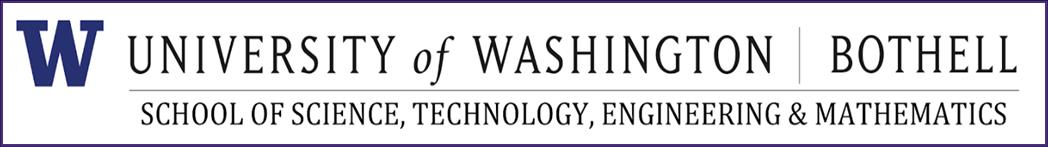
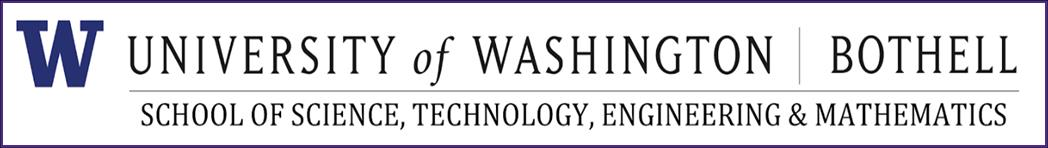
Add files via upload

Changed region(s): [[0.1221, 0.5986, 0.9771, 0.6259], [0.8855, 0.4626, 0.9466, 0.4898], [0.8244, 0.6803, 0.855, 0.7075]]

diff --git a/index.htm b/index.htm
@@ -23,10 +23,10 @@ w\:* {behavior:url(#default#VML);}
   <o:Author>Isabelle</o:Author>
   <o:Template>Normal</o:Template>
   <o:LastAuthor>Isabelle Heier</o:LastAuthor>
-  <o:Revision>4</o:Revision>
-  <o:TotalTime>17</o:TotalTime>
-  <o:Created>2020-07-20T18:03:00Z</o:Created>
-  <o:LastSaved>2020-07-20T18:05:00Z</o:LastSaved>
+  <o:Revision>3</o:Revision>
+  <o:TotalTime>23</o:TotalTime>
+  <o:Created>2020-07-20T18:05:00Z</o:Created>
+  <o:LastSaved>2020-07-20T18:11:00Z</o:LastSaved>
   <o:Pages>1</o:Pages>
   <o:Words>255</o:Words>
   <o:Characters>1457</o:Characters>
@@ -916,12 +916,12 @@ div.WordSection1
  <v:path o:extrusionok="f" gradientshapeok="t" o:connecttype="rect"/>
  <o:lock v:ext="edit" aspectratio="t"/>
 </v:shapetype><v:shape id="image1.png" o:spid="_x0000_s1026" type="#_x0000_t75"
- alt="UWB Logo" style='position:absolute;left:0;text-align:left;margin-left:356.4pt;
+ alt="UWB Logo" style='position:absolute;left:0;text-align:left;margin-left:0;
  margin-top:-8.65pt;width:781.2pt;height:105.85pt;z-index:251658240;
  visibility:visible;mso-wrap-style:square;mso-width-percent:0;
  mso-height-percent:0;mso-wrap-distance-left:0;mso-wrap-distance-top:0;
  mso-wrap-distance-right:0;mso-wrap-distance-bottom:0;
- mso-position-horizontal:absolute;mso-position-horizontal-relative:page;
+ mso-position-horizontal:center;mso-position-horizontal-relative:page;
  mso-position-vertical:absolute;mso-position-vertical-relative:text;
  mso-width-percent:0;mso-height-percent:0;mso-width-relative:margin;
  mso-height-relative:margin' o:allowoverlap="f" stroked="t" strokecolor="#4b2e83"
@@ -930,9 +930,9 @@ div.WordSection1
  <w:wrap anchorx="page"/>
  <w:anchorlock/>
 </v:shape><![endif]--><![if !vml]><span style='mso-ignore:vglayout;position:
-relative;z-index:251658240'><span style='left:0px;position:absolute;left:472px;
+relative;z-index:251658240'><span style='left:0px;position:absolute;left:0px;
 top:-15px;width:1048px;height:148px'><img width=1048 height=148
-src="index_files/image005.jpg" alt="UWB Logo" v:shapes="image1.png"></span></span><![endif]><span
+src="index_files/image002.jpg" alt="UWB Logo" v:shapes="image1.png"></span></span><![endif]><span
 lang=EN style='font-size:36.0pt;font-family:"Helvetica Neue";mso-fareast-font-family:
 "Helvetica Neue";mso-bidi-font-family:"Helvetica Neue"'><o:p>&nbsp;</o:p></span></p>
 
@@ -941,7 +941,7 @@ style='font-size:36.0pt;line-height:115%;font-family:"Helvetica Neue";
 mso-fareast-font-family:"Helvetica Neue";mso-bidi-font-family:"Helvetica Neue"'><o:p>&nbsp;</o:p></span></p>
 
 <p class=MsoNormal align=center style='text-align:center'><span lang=EN
-style='font-size:17.0pt;line-height:115%;font-family:"Helvetica Neue";
+style='font-size:36.0pt;line-height:115%;font-family:"Helvetica Neue";
 mso-fareast-font-family:"Helvetica Neue";mso-bidi-font-family:"Helvetica Neue"'><o:p>&nbsp;</o:p></span></p>
 
 <br style='mso-ignore:vglayout' clear=ALL>
@@ -978,7 +978,7 @@ lang=EN style='font-size:14.0pt;font-family:"Times New Roman",serif;mso-fareast-
  <v:imagedata src="index_files/image003.jpg" o:title="" croptop="13141f"
   cropbottom="50005f"/>
 </v:shape><![endif]--><![if !vml]><img width=863 height=24
-src="index_files/image006.jpg" v:shapes="image2.jpg"><![endif]></span><span
+src="index_files/image004.jpg" v:shapes="image2.jpg"><![endif]></span><span
 lang=EN style='font-size:14.0pt;font-family:"Times New Roman",serif;mso-fareast-font-family:
 "Times New Roman"'><o:p></o:p></span></p>
 
